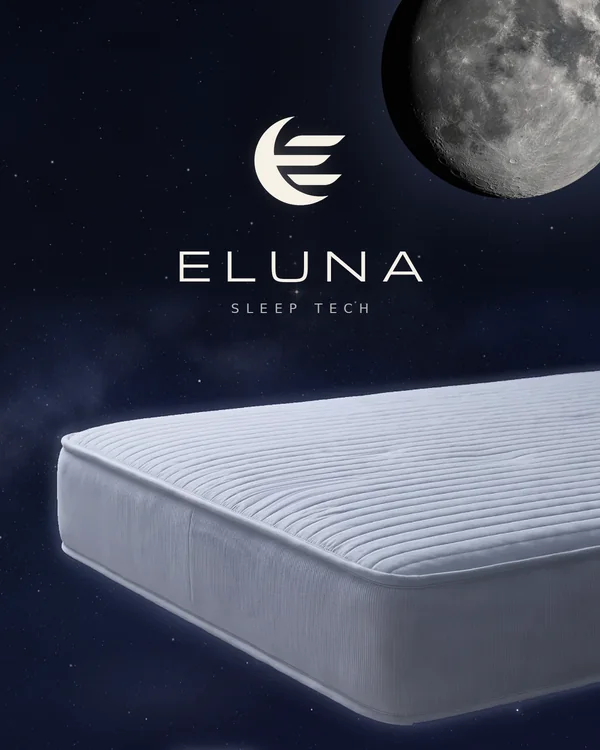
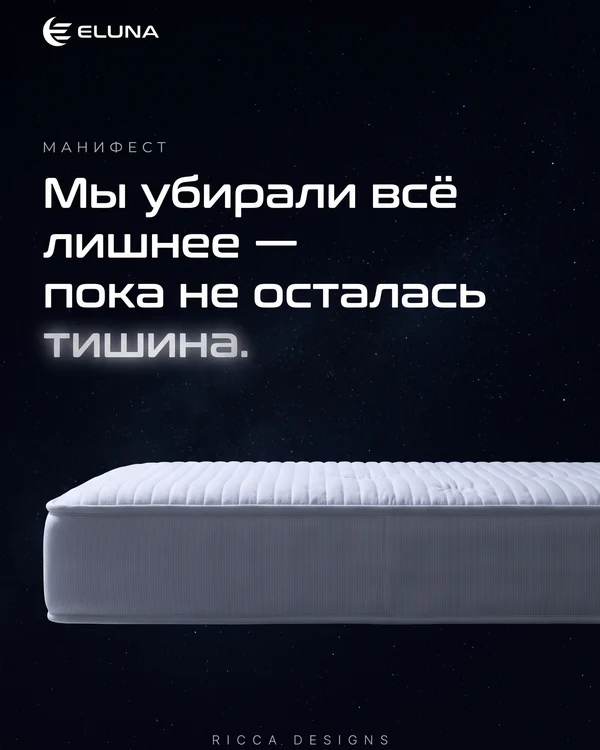
RICCA: обложка ELUNA — постер заказчика «Манифест» (4:5), широкая версия из его элементов (16:7)
Claude-Session: https://claude.ai/code/session_01B55cMf1zBnv97AB9aCbhRU

diff --git a/ricca/index.html b/ricca/index.html
@@ -205,7 +205,7 @@
       <li class="rv tiles__eluna"><a class="tile tile--ext" href="https://ricca-designs.netlify.app" target="_blank" rel="noopener" data-cat="mattresses">
         <span class="tile__img is-night"><picture>
           <source media="(min-width: 600px) and (max-width: 1099.98px)" srcset="img/catalog/cover-mattresses-wide.webp" width="1200" height="525">
-          <img src="img/catalog/cover-mattresses-600.webp" srcset="img/catalog/cover-mattresses-600.webp 600w, img/catalog/cover-mattresses.webp 1200w" sizes="(min-width: 1100px) 290px, 45vw" width="1200" height="1500" alt="Матрас ELUNA на фоне звёздного неба и луны, логотип ELUNA" loading="lazy" decoding="async">
+          <img src="img/catalog/cover-mattresses-600.webp" srcset="img/catalog/cover-mattresses-600.webp 600w, img/catalog/cover-mattresses.webp 1200w" sizes="(min-width: 1100px) 290px, 45vw" width="1200" height="1500" alt="Постер ELUNA «Мы убирали всё лишнее — пока не осталась тишина»: матрас на звёздном небе" loading="lazy" decoding="async">
         </picture></span>
         <span class="tile__cap"><span class="tile__name">Матрасы ELUNA</span><svg class="ico tile__ext" aria-hidden="true"><use href="#i-arrow-ne"/></svg></span>
         <span class="tile__sub" data-tile-sub>Ортопедические, на&nbsp;своём сайте</span><span class="sr-only"> — сайт ELUNA, откроется в&nbsp;новой вкладке</span>

diff --git a/ricca/js/catalog-data.js b/ricca/js/catalog-data.js
@@ -138,7 +138,7 @@ window.RICCA_CATALOG_CATEGORIES = {
     coverAlt: 'Книга образцов тканей: от светло-серого до графитового',
     desc: 'Букле, твид, меланж — по цветам' },
   mattresses: { label: 'Матрасы ELUNA', cover: 'img/catalog/cover-mattresses', href: 'https://ricca-designs.netlify.app',
-    coverAlt: 'Матрас ELUNA на фоне звёздного неба и луны, логотип ELUNA',
+    coverAlt: 'Постер ELUNA «Мы убирали всё лишнее — пока не осталась тишина»: матрас на звёздном небе',
     desc: 'Ортопедические, на своём сайте' }
 };
 window.RICCA_CATALOG_ORDER = ['sofas', 'beds', 'armchairs', 'chairs', 'tables', 'fabrics', 'mattresses'];

diff --git a/tools/media-v3/eluna-manifest-cover.py b/tools/media-v3/eluna-manifest-cover.py
@@ -1,0 +1,80 @@
+"""ELUNA tile cover from the owner's «Манифест» poster (1792x2400).
+4:5 — the poster itself, trimmed top/bottom. 16:7 — the poster's own elements re-laid out
+(logo, «МАНИФЕСТ» + headline, mattress, RICCA DESIGNS) on a matching starry sky, lighten-blended."""
+import numpy as np
+from PIL import Image, ImageChops
+
+SRC = '/home/user/ricca-designs-/ricca/content/eluna/eluna-manifest-poster-src.png'
+OUT = '/tmp/claude-0/-home-user-ricca-designs-/af9da8db-05a5-58b4-b4cb-5bd9366cc95c/scratchpad/eluna'
+im = Image.open(SRC).convert('RGB')
+W, H = im.size
+a = np.asarray(im).astype(np.float64)
+L = a.mean(2)
+
+
+def bbox(y0, y1, thr=120, pad=24):
+    cols = np.where((L[y0:y1] > thr).sum(0) > 0)[0]
+    return max(0, cols[0] - pad), min(W, cols[-1] + pad)
+
+
+# 4:5 — trim 160 px (70 top, 90 bottom)
+p = im.crop((0, 70, W, 70 + int(W / 0.8)))
+p = p.resize((1200, 1500), Image.LANCZOS)
+p.save(OUT + '/manifest-portrait.png')
+
+# 16:7 background: per-row sky colour from the poster's empty columns, plus its own stars
+rng = np.random.default_rng(7)
+CW, CH = 1200, 525
+sky_rows = np.median(a[:, -260:-60] if False else a[:, 1500:1780], axis=1)  # right margin above/below mattress
+top, mid = np.median(a[0:90].reshape(-1, 3), 0), np.median(a[1020:1150].reshape(-1, 3), 0)
+yy = np.linspace(0, 1, CH)[:, None, None]
+bg = top[None, None] * (1 - yy) + mid[None, None] * yy + np.zeros((CH, CW, 3))
+bg += rng.normal(0, 0.8, bg.shape)
+n = 420
+for y, x, amp in zip(rng.uniform(0, CH, n), rng.uniform(0, CW, n), 25 + 140 * rng.random(n) ** 3):
+    yi, xi = int(y), int(x)
+    for dy in (-1, 0, 1):
+        for dx in (-1, 0, 1):
+            if 0 <= yi + dy < CH and 0 <= xi + dx < CW:
+                w = np.exp(-((dy) ** 2 + (dx) ** 2) / 0.6)
+                bg[yi + dy, xi + dx] += amp * w
+canvas = Image.fromarray(np.clip(bg, 0, 255).astype(np.uint8))
+
+
+def place(box, scale, xy, feather=0, edges='ltb'):
+    global canvas
+    part = im.crop(box)
+    part = part.resize((max(1, int(part.width * scale)), max(1, int(part.height * scale))), Image.LANCZOS)
+    if feather:
+        pa = np.asarray(part).astype(np.float64)
+        h, w = pa.shape[:2]
+        m = np.ones((h, w))
+        r = np.linspace(0, 1, feather)
+        if 'l' in edges: m[:, :feather] *= r[None]
+        if 'r' in edges: m[:, -feather:] *= r[::-1][None]
+        if 't' in edges: m[:feather] *= r[:, None]
+        if 'b' in edges: m[-feather:] *= r[::-1][:, None]
+        part = Image.fromarray((pa * m[..., None] ** 1.5).astype(np.uint8))
+    layer = Image.new('RGB', canvas.size, (0, 0, 0))
+    layer.paste(part, xy)
+    canvas = ImageChops.lighter(canvas, layer)
+    return part.size
+
+
+lx0, lx1 = bbox(110, 220)
+hx0, hx1 = 96, 1520
+mx0, mx1 = bbox(1430, 1960, thr=60)
+rx0, rx1 = bbox(2255, 2305)
+s_logo = 34 / (207 - 121)
+place((lx0, 100, lx1, 228), s_logo, (40, 34), feather=8, edges='ltrb')
+s_head = 0.33
+hw = place((hx0, 420, hx1, 1200), s_head, (40, 84), feather=18, edges="ltrb")
+s_m = 0.355
+mw = place((mx0, 1380, W, 2000), s_m, (CW - int((W - mx0) * s_m), 262), feather=40, edges='ltb')
+place((rx0, 2245, rx1, 2315), 0.42, (40, 462), feather=8, edges='ltrb')
+canvas.save(OUT + '/manifest-wide.png')
+sheet = Image.new('RGB', (600 + 20 + 1200, 750), (250, 250, 248))
+sheet.paste(p.resize((600, 750), Image.LANCZOS), (0, 0))
+sheet.paste(canvas, (620, 0))
+sheet.save(OUT + '/manifest-sheet.jpg', quality=88)
+print('boxes', (lx0, lx1), (hx0, hx1), (mx0, mx1), (rx0, rx1), hw, mw)

diff --git a/ЗАДАЧИ.md b/ЗАДАЧИ.md
@@ -11,5 +11,5 @@
 | 4 | Чертёж без ошибок — сам строится из выбранного, отправить картинкой в WhatsApp (ателье → производство) | ⏳ собирается вместе с конструктором |
 | 5 | «Моя комната» (расставить, двигать, удалять мебель, камера сама облетает) + камера телефона (мебель в реальном размере на полу) + план отдельного приложения со сканированием комнаты | ⏳ собирается вместе с конструктором |
 | 6 | Чёткие образцы тканей через ИИ (цвет остаётся точным) | ✅ 209 образцов обработаны ИИ (ESRGAN ×4), для каждого оставлен более чёткий вариант; LUCKY — когда будет готов |
-| 8 | Обложка ELUNA — переобразить, добавить логотип | ✅ готово: знак и надпись ELUNA, SLEEP TECH, луна, матрас на звёздном небе |
+| 8 | Обложка ELUNA — переобразить, добавить логотип; «вот так можно» — постер «Манифест» | ✅ готово: ваш постер «Манифест» (логотип ELUNA, «Мы убирали всё лишнее — пока не осталась тишина.», матрас, RICCA DESIGNS); для планшета — широкая версия из тех же элементов |
 | 7 | Рамки разной формы — арки, капсула | ↩ заказчику не понравилось — каталог возвращён как был (прямоугольники); стиль и основу сайта сохранять, только добавлять |
